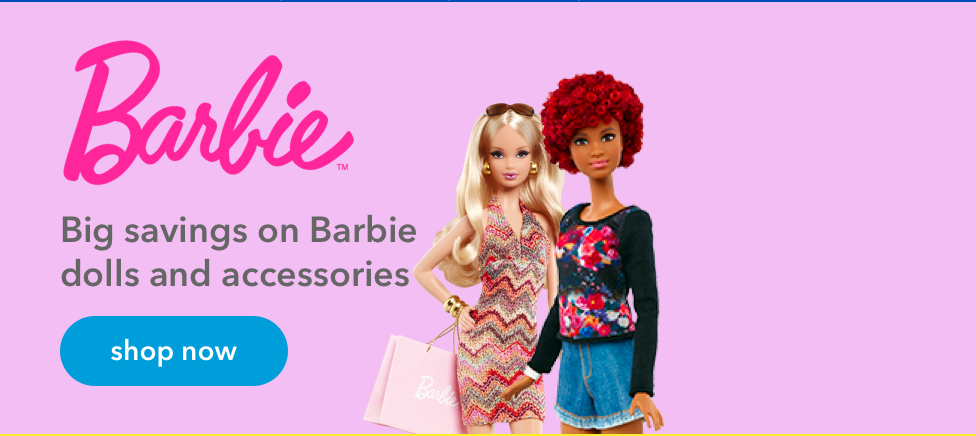
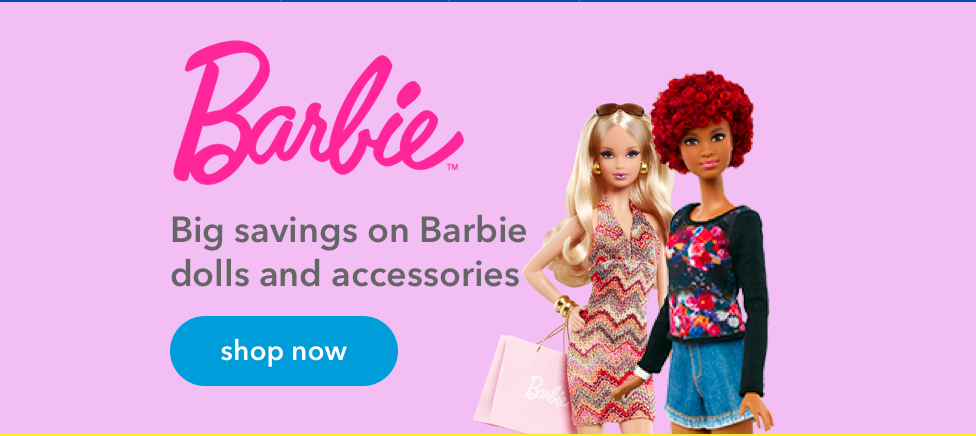
Updated guidelines

diff --git a/hp-guidelines/dist/css/minified.css b/hp-guidelines/dist/css/minified.css
@@ -1,1 +1,1 @@
-.large-card .content,.small-card>.content{-webkit-box-orient:vertical;bottom:0;right:0;text-align:center;-webkit-box-direction:normal}.large-card .content,.promotions,.small-card>.content{-webkit-box-direction:normal}h1,h2,h3,h4,h5,h6,p{margin:0;padding:0}.a-spot,.a-spot .button{margin:0 auto}.ico-piggy-bank{display:inline-block;width:75px;height:70px;background:url(../../img/icons/ico-piggy-bank.svg) center center no-repeat}.button{border-radius:100px;font-family:AvenirNext-DemiBold;font-size:.88em;color:#FFF;background:#EA7125;padding:.6em 1.6em;width:-webkit-fit-content;width:-moz-fit-content;width:fit-content}.button.-large{font-size:1.13em;padding:.6em 3.8em}.button.-blue{background:#009DDB}.large-card .background,.small-card .background{background-size:cover}@media screen and (min-width:920px){.a-spot{max-width:none}.a-spot .container{display:-webkit-box;display:-ms-flexbox;display:flex}}@media screen and (min-width:630px){.a-spot .button{margin:0}.a-spot .button.-large{margin:0 auto}}@media screen and (min-width:1140px){.a-spot .container{max-width:1476px}picture{visibility:hidden}}picture img{display:block}.b-spots{display:none;-webkit-box-pack:justify;-ms-flex-pack:justify;justify-content:space-between;text-align:center;margin-bottom:2.6em}@media screen and (min-width:710px){.b-spots{display:-webkit-box;display:-ms-flexbox;display:flex}}.b-spots>.spot{display:block;width:33.3%;padding:1em;border-bottom:3px solid #fff}.b-spots>.spot:hover{border-color:#004EBC}.b-spots>.spot:hover>.spot-title{color:#004EBC}.b-spots>.spot>.spot-title{font-family:AvenirNext-DemiBold;font-size:.88em;color:#009DDB}.b-spots>.spot>.spot-description{font-family:AvenirNext-DemiBold;font-size:.75em;color:#666}.large-card{color:#fff;width:100%;position:relative}@media screen and (min-width:920px){.large-card{max-width:64.4%}.large-card .background{max-height:436px;height:100%;background-position:0}}@media screen and (min-width:1282px){.large-card .background{min-height:436px;max-height:436px}}.large-card .content{-ms-flex-direction:column;flex-direction:column;position:absolute;top:0;left:0;padding:10% 1.6em 0;display:none}@media screen and (min-width:630px){.large-card .content{padding:10% 6.6em 0}}@media screen and (min-width:1140px){.large-card{max-width:64%}.large-card .content{padding:16% 6.6em 0}}.large-card p{font-family:AvenirNext-Medium;font-size:1.63em;line-height:1.3;margin-bottom:.3em;max-width:370px;margin-left:auto;margin-right:auto}.large-card p.disclaimer,.small-card p{font-family:AvenirNext-DemiBold;margin-bottom:1em}.large-card p.disclaimer{font-size:1em;line-height:1.3}.large-card>img{display:none;max-width:318px;vertical-align:middle;position:absolute;left:-5em}@media screen and (min-width:630px){.large-card>img{display:inline-block}}.promotions,.small-cards{display:-webkit-box;display:-ms-flexbox}.small-cards{display:flex}@media screen and (min-width:920px){.small-cards{max-width:35.6%;display:block}.small-card .background{max-height:218px;background-position:0}}.small-card{color:#666;position:relative}.small-card>.content{-ms-flex-direction:column;flex-direction:column;position:absolute;top:auto;left:0;padding:1.5em .5em 1em;display:none}@media screen and (min-width:630px){.small-card>.content{padding:1.5em 11.5em 0 1.5em;top:0;text-align:left}}@media screen and (min-width:1140px){.small-cards{max-width:36%}.small-card>.content{padding:3.5em 11.5em 0 2.5em}}.small-card>.content .button{display:none}.small-card p{font-size:1.13em;line-height:1.22em}.small-card.-barbie{background:#F3BEF4;color:#FF269B}.small-card.-monopoly{color:#EA7125}@media screen and (min-width:630px){.small-card>.content .button{display:inline-block}.small-card.-monopoly img{right:-2.6em;bottom:-.6em}}.promotions{display:flex;-ms-flex-pack:distribute;justify-content:space-around;-webkit-box-orient:horizontal;-ms-flex-flow:row wrap;flex-flow:row wrap}@media screen and (min-width:630px){.promotions{-webkit-box-pack:justify;-ms-flex-pack:justify;justify-content:space-between}}.promotions.-variant>.card{background:#F6958F;border-radius:10px;width:100%;color:#FFF;height:calc(50vw - .6em);display:-webkit-box;display:-ms-flexbox;display:flex;-webkit-box-align:center;-ms-flex-align:center;align-items:center;-webkit-box-pack:center;-ms-flex-pack:center;justify-content:center;position:relative}.promotions.-variant>.card:last-of-type{display:none}@media screen and (max-width:630px){.promotions.-variant>.card:last-of-type{display:-webkit-box;display:-ms-flexbox;display:flex}}.promotions.-variant>.card>.contents>i{background-size:contain;max-width:17vw}.promotions.-variant>.card>.contents>.title{font-family:AvenirNext-Medium;font-size:1.31em;line-height:1.29em;font-weight:400;margin-bottom:.2em}@media screen and (min-width:630px){.promotions.-variant>.card{height:calc(33.3vw - 3.2em)}.promotions.-variant>.card>.contents>.title{margin-top:.5em}}@media screen and (min-width:764px){.promotions.-variant>.card>.contents>.title{margin-top:1em}}.promotions.-variant>.card>.contents>.description{font-size:1em;line-height:1.25em}.promotions>.card{text-align:center;max-width:calc(50% - 1em);margin-bottom:1em}@media screen and (min-width:630px){.promotions>.card{max-width:calc(33.3% - 1em)}}@media screen and (min-width:920px){.promotions.-variant>.card{height:243px}.promotions.-variant>.card:last-of-type{display:-webkit-box;display:-ms-flexbox;display:flex}.promotions>.card{max-width:calc(25% - 1em)}}.promotions>.card:last-of-type{display:none}@media screen and (max-width:630px){.promotions>.card:last-of-type{display:block}}@media screen and (min-width:920px){.promotions>.card:last-of-type{display:block}}.promotions>.card>img{border-radius:10px;display:block;margin-bottom:1em}.promotions>.card>.title{font-family:AvenirNext-DemiBold;font-size:1.13em;color:#004EBC;margin-bottom:.4em}.promotions>.card>.description{font-size:.94em;color:#666}*{box-sizing:border-box}body{font-family:"Avenir Next",arial,sans-serif;line-height:1.5;font-size:12px;margin:0;padding:0;-webkit-font-smoothing:antialiased}@media screen and (min-width:380px){body{font-size:14px}}@media screen and (min-width:658px){body{font-size:15px}}a{text-decoration:none}img{max-width:100%;height:auto}.container{max-width:1140px;margin:0 auto}
+.large-card .content,.small-card>.content{-webkit-box-orient:vertical;bottom:0;right:0;text-align:center;-webkit-box-direction:normal}.large-card .content,.promotions,.small-card>.content{-webkit-box-direction:normal}h1,h2,h3,h4,h5,h6,p{margin:0;padding:0}.a-spot,.a-spot .button{margin:0 auto}.ico-piggy-bank{display:inline-block;width:75px;height:70px;background:url(../../img/icons/ico-piggy-bank.svg) center center no-repeat}.button{border-radius:100px;font-family:AvenirNext-DemiBold;font-size:.88em;color:#FFF;background:#EA7125;padding:.6em 1.6em;width:-webkit-fit-content;width:-moz-fit-content;width:fit-content}.button.-large{font-size:1.13em;padding:.6em 3.8em}.button.-blue{background:#009DDB}.large-card .background,.small-card .background{background-size:auto 100%}@media screen and (min-width:920px){.a-spot{max-width:none}.a-spot .container{display:-webkit-box;display:-ms-flexbox;display:flex}picture{display:none}}@media screen and (min-width:630px){.a-spot .button{margin:0}.a-spot .button.-large{margin:0 auto}}@media screen and (min-width:1140px){.a-spot .container{max-width:1378px}}picture img{display:block}.b-spots{display:none;-webkit-box-pack:justify;-ms-flex-pack:justify;justify-content:space-between;text-align:center;margin-bottom:2.6em}@media screen and (min-width:710px){.b-spots{display:-webkit-box;display:-ms-flexbox;display:flex}}.b-spots>.spot{display:block;width:33.3%;padding:1em;border-bottom:3px solid #fff}.b-spots>.spot:hover{border-color:#004EBC}.b-spots>.spot:hover>.spot-title{color:#004EBC}.b-spots>.spot>.spot-title{font-family:AvenirNext-DemiBold;font-size:.88em;color:#009DDB}.b-spots>.spot>.spot-description{font-family:AvenirNext-DemiBold;font-size:.75em;color:#666}.large-card{color:#fff;width:100%;position:relative}@media screen and (min-width:920px){.large-card{max-width:64.4%;width:100%}.large-card .background{height:436px;background-position:center center;background-repeat:no-repeat}}@media screen and (max-width:920px){.large-card .background{background-image:none!important}}.large-card .content{-ms-flex-direction:column;flex-direction:column;position:absolute;top:0;left:0;padding:10% 1.6em 0;display:none}@media screen and (min-width:630px){.large-card .content{padding:10% 6.6em 0}}@media screen and (min-width:1140px){.large-card{max-width:64%}.large-card .content{padding:16% 6.6em 0}}.large-card p{font-family:AvenirNext-Medium;font-size:1.63em;line-height:1.3;margin-bottom:.3em;max-width:370px;margin-left:auto;margin-right:auto}.large-card p.disclaimer,.small-card p{font-family:AvenirNext-DemiBold;margin-bottom:1em}.large-card p.disclaimer{font-size:1em;line-height:1.3}.large-card>img{display:none;max-width:318px;vertical-align:middle;position:absolute;left:-5em}@media screen and (min-width:630px){.large-card>img{display:inline-block}}.promotions,.small-cards{display:-webkit-box;display:-ms-flexbox}.small-cards{display:flex}@media screen and (min-width:920px){.small-cards{width:100%;max-width:35.6%;display:block}.small-card .background{height:218px;background-position:center center}}.small-card{color:#666;position:relative}.small-card>.content{-ms-flex-direction:column;flex-direction:column;position:absolute;top:auto;left:0;padding:1.5em .5em 1em;display:none}@media screen and (min-width:630px){.small-card>.content{padding:1.5em 11.5em 0 1.5em;top:0;text-align:left}}@media screen and (min-width:1140px){.small-cards{max-width:36%}.small-card>.content{padding:3.5em 11.5em 0 2.5em}}.small-card>.content .button{display:none}.small-card p{font-size:1.13em;line-height:1.22em}.small-card.-barbie{background:#F3BEF4;color:#FF269B}.small-card.-monopoly{color:#EA7125}@media screen and (min-width:630px){.small-card>.content .button{display:inline-block}.small-card.-monopoly img{right:-2.6em;bottom:-.6em}}.promotions{display:flex;-ms-flex-pack:distribute;justify-content:space-around;-webkit-box-orient:horizontal;-ms-flex-flow:row wrap;flex-flow:row wrap}@media screen and (min-width:630px){.promotions{-webkit-box-pack:justify;-ms-flex-pack:justify;justify-content:space-between}}.promotions.-variant>.card{background:#F6958F;border-radius:10px;width:100%;color:#FFF;height:calc(50vw - .6em);display:-webkit-box;display:-ms-flexbox;display:flex;-webkit-box-align:center;-ms-flex-align:center;align-items:center;-webkit-box-pack:center;-ms-flex-pack:center;justify-content:center;position:relative}.promotions.-variant>.card:last-of-type{display:none}@media screen and (max-width:630px){.promotions.-variant>.card:last-of-type{display:-webkit-box;display:-ms-flexbox;display:flex}}.promotions.-variant>.card>.contents>i{background-size:contain;max-width:17vw}.promotions.-variant>.card>.contents>.title{font-family:AvenirNext-Medium;font-size:1.31em;line-height:1.29em;font-weight:400;margin-bottom:.2em}@media screen and (min-width:630px){.promotions.-variant>.card{height:calc(33.3vw - 3.2em)}.promotions.-variant>.card>.contents>.title{margin-top:.5em}}@media screen and (min-width:764px){.promotions.-variant>.card>.contents>.title{margin-top:1em}}.promotions.-variant>.card>.contents>.description{font-size:1em;line-height:1.25em}.promotions>.card{text-align:center;max-width:calc(50% - 1em);margin-bottom:1em}@media screen and (min-width:630px){.promotions>.card{max-width:calc(33.3% - 1em)}}@media screen and (min-width:920px){.promotions.-variant>.card{height:243px}.promotions.-variant>.card:last-of-type{display:-webkit-box;display:-ms-flexbox;display:flex}.promotions>.card{max-width:calc(25% - 1em)}}.promotions>.card:last-of-type{display:none}@media screen and (max-width:630px){.promotions>.card:last-of-type{display:block}}@media screen and (min-width:920px){.promotions>.card:last-of-type{display:block}}.promotions>.card>img{border-radius:10px;display:block;margin-bottom:1em}.promotions>.card>.title{font-family:AvenirNext-DemiBold;font-size:1.13em;color:#004EBC;margin-bottom:.4em}.promotions>.card>.description{font-size:.94em;color:#666}*{box-sizing:border-box}body{font-family:"Avenir Next",arial,sans-serif;line-height:1.5;font-size:12px;margin:0;padding:0;-webkit-font-smoothing:antialiased}@media screen and (min-width:380px){body{font-size:14px}}@media screen and (min-width:658px){body{font-size:15px}}a{text-decoration:none}img{max-width:100%;height:auto}.container{max-width:1140px;margin:0 auto}

diff --git a/hp-guidelines/css/components/_large-card.scss b/hp-guidelines/css/components/_large-card.scss
@@ -2,26 +2,24 @@
   color: #fff;
   width: 100%;
   position: relative;
-  @media screen and (min-width:$a-spot-max) {
+  @media screen and (min-width: $a-spot-max) {
     max-width: 64.4%;
+    width: 100%;
   }
   @media screen and (min-width:$a-spot-full) {
     max-width: 64%;
   }
-
   .background {
-    background-size: cover;
-    @media screen and (min-width:$a-spot-max) {
-      max-height: 436px;
-      height: 100%;
-      background-position: 0;
+    background-size: auto 100%;
+    @media screen and (max-width: $a-spot-max) {
+      background-image: none !important;
     }
-    @media screen and (min-width:1282px) {
-      min-height: 436px;
-      max-height: 436px;
+    @media screen and (min-width: $a-spot-max) {
+      height: 436px;
+      background-position: center center;
+      background-repeat: no-repeat;
     }
   }
-
   .content {
     text-align: center;
     display: flex;
@@ -36,7 +34,7 @@
     left: 0;
     right: 0;
     padding: 10% 1.6em 0;
-    @media screen and (min-width:$a-spot-medium) {
+    @media screen and (min-width: $a-spot-medium) {
       padding: 10% 6.6em 0;
     }
     @media screen and (min-width:$a-spot-full) {
@@ -44,7 +42,6 @@
     }
     display: none;
   }
-
   p {
     font-family: AvenirNext-Medium;
     font-size: 1.63em;
@@ -53,7 +50,6 @@
     max-width: 370px;
     margin-left: auto;
     margin-right: auto;
-
     &.disclaimer {
       font-family: AvenirNext-DemiBold;
       font-size: 1em;
@@ -61,14 +57,13 @@
       line-height: 1.3;
     }
   }
-
-  > img {
+  >img {
     display: none;
     max-width: 318px;
     vertical-align: middle;
     position: absolute;
     left: -5em;
-    @media screen and (min-width:$a-spot-medium) {
+    @media screen and (min-width: $a-spot-medium) {
       display: inline-block;
     }
   }

diff --git a/hp-guidelines/css/components/_small-card.scss b/hp-guidelines/css/components/_small-card.scss
@@ -1,6 +1,7 @@
 .small-cards {
   display: flex;
-  @media screen and (min-width:$a-spot-max) {
+  @media screen and (min-width: $a-spot-max) {
+    width: 100%;
     max-width: 35.6%;
     display: block;
   }
@@ -12,16 +13,14 @@
 .small-card {
   color: #666666;
   position: relative;
-
   .background {
-    background-size: cover;
-    @media screen and (min-width:$a-spot-max) {
-      max-height: 218px;
-      background-position: 0;
+    background-size: auto 100%;
+    @media screen and (min-width: $a-spot-max) {
+      height: 218px;
+      background-position: center center;
     }
   }
-
-  > .content {
+  >.content {
     display: flex;
     -webkit-box-orient: vertical;
     -webkit-box-direction: normal;
@@ -35,7 +34,7 @@
     right: 0;
     padding: 1.5em 0.5em 1em;
     text-align: center;
-    @media screen and (min-width:$a-spot-medium) {
+    @media screen and (min-width: $a-spot-medium) {
       padding: 1.5em 11.5em 0 1.5em;
       top: 0;
       text-align: left;
@@ -43,31 +42,27 @@
     @media screen and (min-width:$a-spot-full) {
       padding: 3.5em 11.5em 0 2.5em;
     }
-
     .button {
       display: none;
-      @media screen and (min-width:$a-spot-medium) {
+      @media screen and (min-width: $a-spot-medium) {
         display: inline-block;
       }
     }
     display: none;
   }
-
   p {
     font-family: AvenirNext-DemiBold;
     font-size: 1.13em;
     line-height: 1.22em;
     margin-bottom: 1em;
   }
-
   &.-barbie {
     background: #F3BEF4;
     color: #FF269B;
   }
-
   &.-monopoly {
     color: #EA7125;
-    @media screen and (min-width:$a-spot-medium) {
+    @media screen and (min-width: $a-spot-medium) {
       img {
         right: -2.6em;
         bottom: -0.6em;

diff --git a/hp-guidelines/css/components/_a-spot.scss b/hp-guidelines/css/components/_a-spot.scss
@@ -1,22 +1,18 @@
 $a-spot-medium: 630px;
 $a-spot-max: 920px;
 $a-spot-full: 1140px;
-
 .a-spot {
   margin: 0 auto;
-  @media screen and (min-width:$a-spot-max) {
+  @media screen and (min-width: $a-spot-max) {
     max-width: none;
-
     .container {
       display: flex;
     }
   }
-
   .button {
     margin: 0 auto;
-    @media screen and (min-width:$a-spot-medium) {
+    @media screen and (min-width: $a-spot-medium) {
       margin: 0;
-
       &.-large {
         margin: 0 auto;
       }
@@ -24,16 +20,15 @@ $a-spot-full: 1140px;
   }
   @media screen and (min-width:$a-spot-full) {
     .container {
-      max-width: 1476px;
+      max-width: 1378px;
     }
   }
 }
 
 picture {
-  @media screen and (min-width:$a-spot-full) {
-    visibility: hidden;
+  @media screen and (min-width: $a-spot-max) {
+    display: none;
   }
-
   img {
     display: block;
   }
